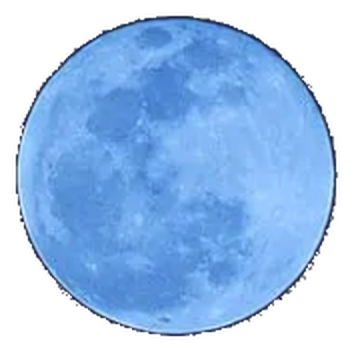
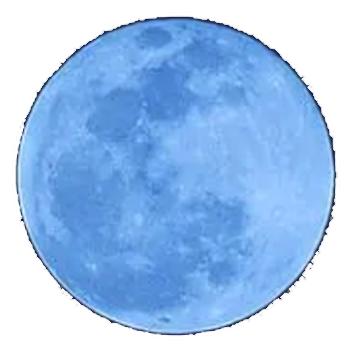
Replace moon black rim with soft white edge (#9)
Recolor the PNG cutout fringe from near-black to soft white and
tune the hero glow so the perimeter reads as a light halo, not a
dark outline.

diff --git a/src/index.css b/src/index.css
@@ -134,23 +134,23 @@ img { max-width: 100%; display: block; }
   border: 0;
   border-radius: 50%;
   filter:
-    drop-shadow(0 0 10px rgba(180, 220, 255, 0.75))
-    drop-shadow(0 0 22px rgba(120, 190, 255, 0.55))
-    drop-shadow(0 0 40px rgba(242, 193, 78, 0.28));
+    drop-shadow(0 0 8px rgba(255, 255, 255, 0.85))
+    drop-shadow(0 0 18px rgba(210, 235, 255, 0.7))
+    drop-shadow(0 0 36px rgba(160, 210, 255, 0.4));
   animation: fade-up 1s 0.15s ease both, moon-glow 5.5s ease-in-out infinite;
 }
 @keyframes moon-glow {
   0%, 100% {
     filter:
-      drop-shadow(0 0 10px rgba(180, 220, 255, 0.7))
-      drop-shadow(0 0 22px rgba(120, 190, 255, 0.5))
-      drop-shadow(0 0 38px rgba(242, 193, 78, 0.22));
+      drop-shadow(0 0 8px rgba(255, 255, 255, 0.8))
+      drop-shadow(0 0 18px rgba(210, 235, 255, 0.65))
+      drop-shadow(0 0 34px rgba(160, 210, 255, 0.35));
   }
   50% {
     filter:
-      drop-shadow(0 0 16px rgba(200, 230, 255, 0.95))
-      drop-shadow(0 0 32px rgba(140, 210, 255, 0.7))
-      drop-shadow(0 0 52px rgba(242, 193, 78, 0.38));
+      drop-shadow(0 0 14px rgba(255, 255, 255, 0.95))
+      drop-shadow(0 0 28px rgba(230, 245, 255, 0.85))
+      drop-shadow(0 0 48px rgba(180, 220, 255, 0.5));
   }
 }
 .hero-copy { position: relative; z-index: 1; max-width: 34rem; animation: fade-up 0.8s 0.1s ease both; }
